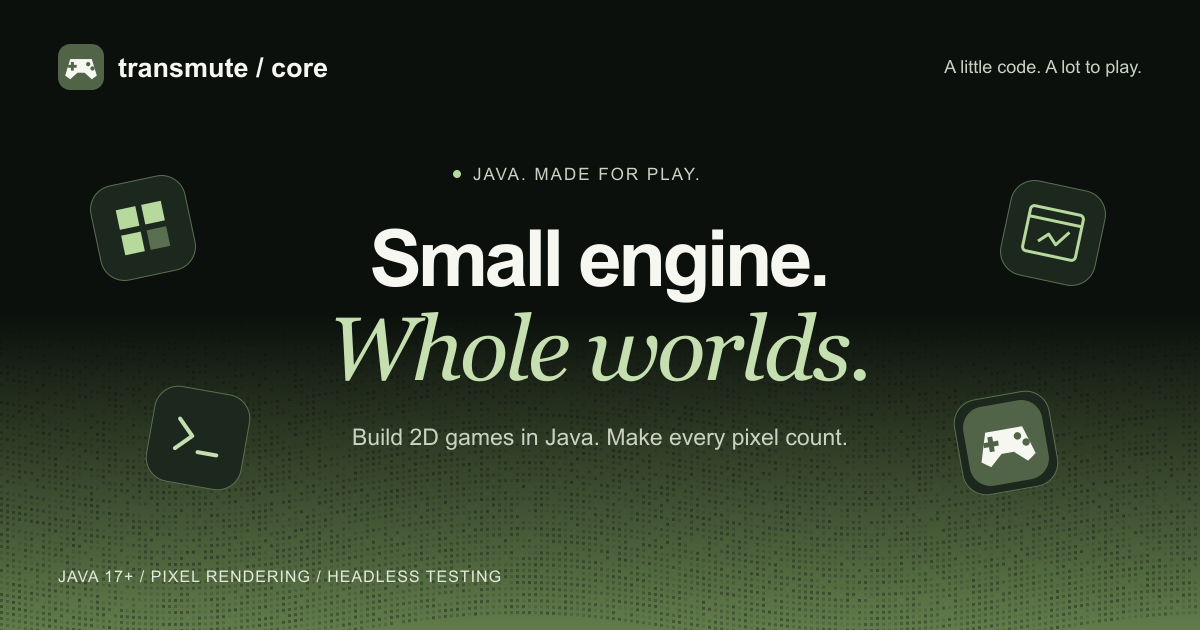
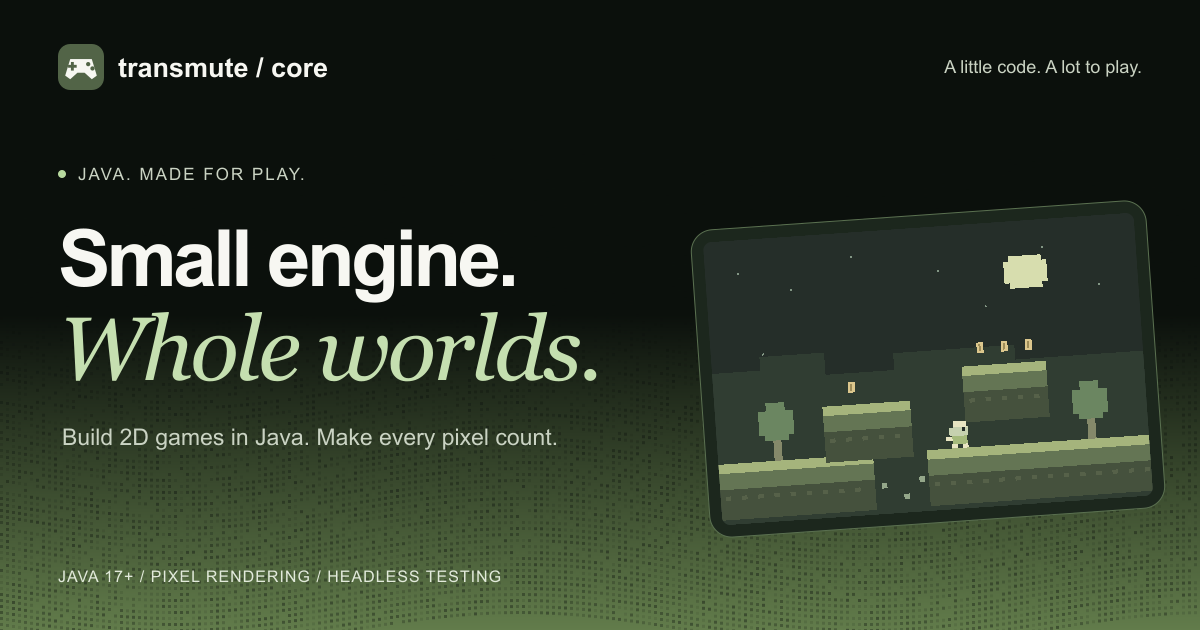
feat: feature the pixel world in the social preview

Changed region(s): [[0.0308, 0.2714, 0.9867, 0.8746], [0.37, 0.2714, 0.5858, 0.3016]]

diff --git a/scripts/generate-brand.ts b/scripts/generate-brand.ts
@@ -5,8 +5,9 @@ const root = resolve(import.meta.dir, "..");
 const logo = await Bun.file(`${root}/assets/logo.svg`).text();
 const mark = logo.replace(/<svg[^>]*>|<\/svg>/g, "");
 const background = await Bun.file(`${root}/assets/og-background.svg`).text();
-const tile = (x: number, y: number, angle: number, content: string) =>
-  `<g transform="translate(${x} ${y}) rotate(${angle} 48 48)"><rect width="96" height="96" rx="24" fill="#1c271d" stroke="#5a7050"/>${content}</g>`;
+const world = (
+  await Bun.file(`${root}/website/public/world.svg`).text()
+).replace("<svg ", '<svg x="12" y="12" width="432" height="284" ');
 const svg = background.replace(
   "</svg>",
   `
@@ -14,17 +15,18 @@ const svg = background.replace(
 <g font-family="Arial, sans-serif">
   <text x="118" y="77" font-size="27" font-weight="bold" fill="#f7f7f2">transmute / core</text>
   <text x="1142" y="73" text-anchor="end" font-size="18" fill="#cad3c3">A little code. A lot to play.</text>
-  <circle cx="457" cy="174" r="4" fill="#b7d99e"/>
-  <text x="473" y="180" font-size="17" letter-spacing="2" fill="#cad3c3">JAVA. MADE FOR PLAY.</text>
-  <text x="600" y="286" text-anchor="middle" font-size="79" font-weight="bold" letter-spacing="-4" fill="#f7f7f2">Small engine.</text>
-  <text x="600" y="380" text-anchor="middle" font-family="Georgia, serif" font-style="italic" font-size="90" letter-spacing="-3" fill="#c5dfb0">Whole worlds.</text>
-  <text x="600" y="445" text-anchor="middle" font-size="23" fill="#cad3c3">Build 2D games in Java. Make every pixel count.</text>
+  <circle cx="62" cy="174" r="4" fill="#b7d99e"/>
+  <text x="78" y="180" font-size="17" letter-spacing="2" fill="#cad3c3">JAVA. MADE FOR PLAY.</text>
+  <text x="58" y="286" font-size="79" font-weight="bold" letter-spacing="-4" fill="#f7f7f2">Small engine.</text>
+  <text x="58" y="380" font-family="Georgia, serif" font-style="italic" font-size="90" letter-spacing="-3" fill="#c5dfb0">Whole worlds.</text>
+  <text x="62" y="445" font-size="23" fill="#cad3c3">Build 2D games in Java. Make every pixel count.</text>
   <text x="58" y="582" font-size="16" letter-spacing="1" fill="#e2eadb">JAVA 17+ / PIXEL RENDERING / HEADLESS TESTING</text>
 </g>
-${tile(95, 180, -12, '<g fill="#b7d99e"><path d="M25 25h20v20H25zm26 0h20v20H51zM25 51h20v20H25z"/><path d="M51 51h20v20H51z" opacity=".4"/></g>')}
-${tile(1005, 185, 12, '<g fill="none" stroke="#b7d99e" stroke-width="3" stroke-linejoin="round"><rect x="21" y="25" width="54" height="46" rx="4"/><path d="M21 36h54m-40 23 9-9 9 9 11-15"/></g>')}
-${tile(150, 390, 10, '<path d="m27 32 15 15-15 15m23 0h19" fill="none" stroke="#c5dfb0" stroke-width="4" stroke-linecap="round" stroke-linejoin="round"/>')}
-${tile(958, 395, -10, `<g transform="translate(8 8) scale(1.25)">${mark}</g>`)}
+<g transform="translate(700 215) rotate(-4 228 154)">
+  <rect width="456" height="308" rx="22" fill="#1c271d" stroke="#5a7050"/>
+  <clipPath id="scene"><rect x="12" y="12" width="432" height="284" rx="9"/></clipPath>
+  <g clip-path="url(#scene)">${world}</g>
+</g>
 </svg>`,
 );
 await Bun.write(`${root}/assets/og-image.svg`, svg);
